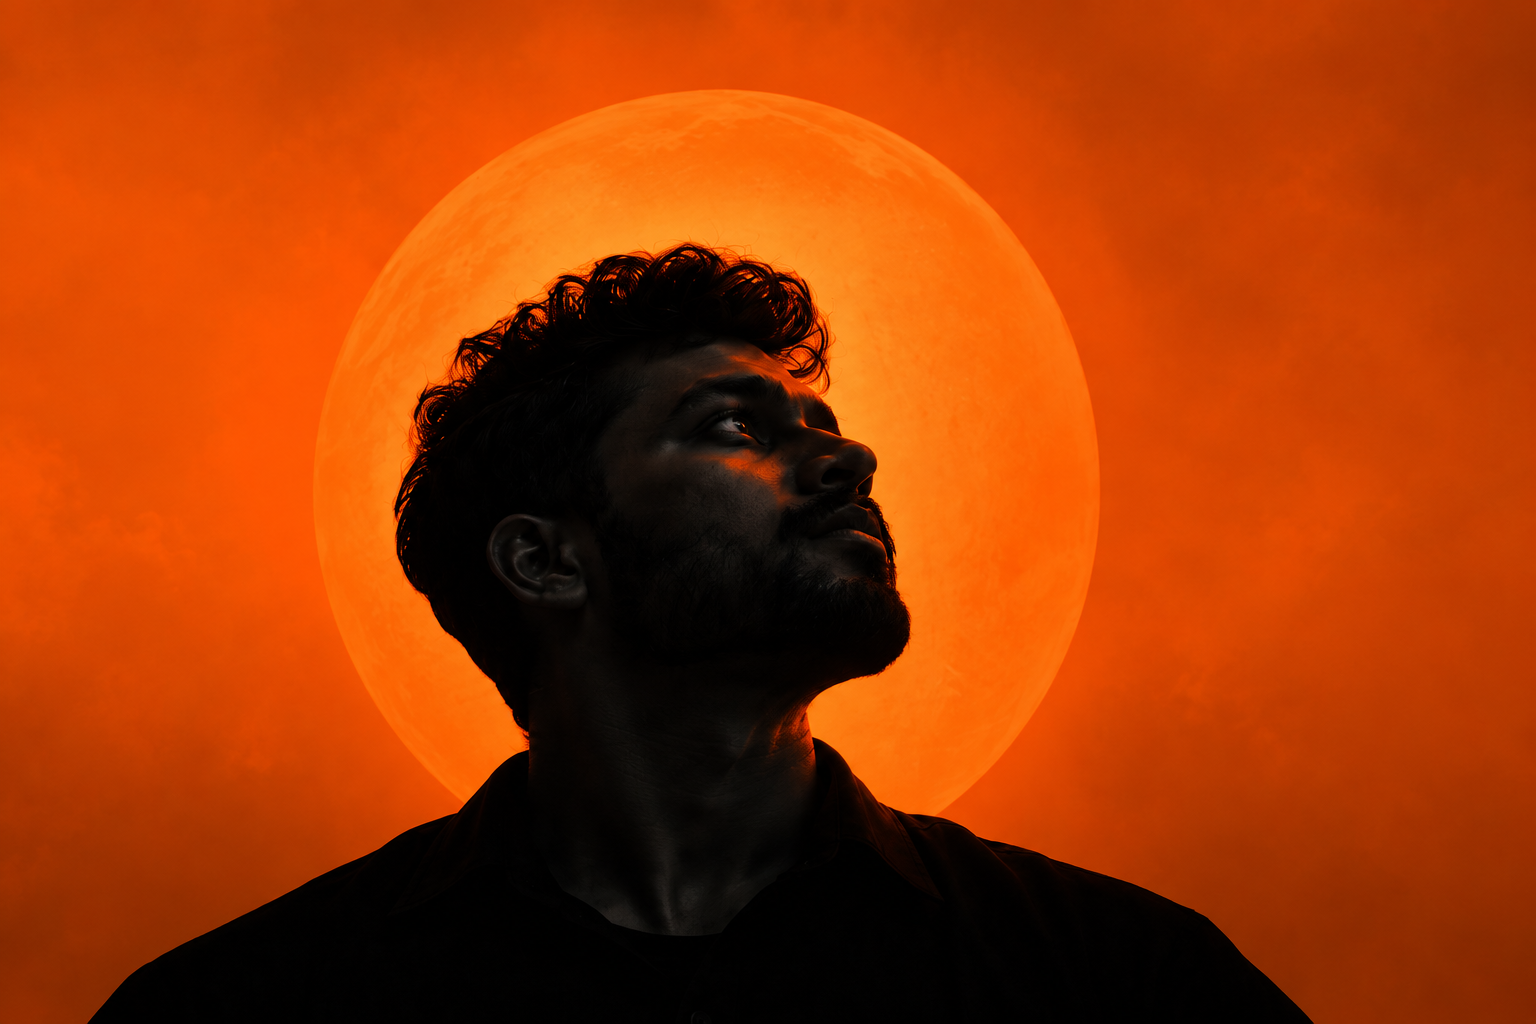
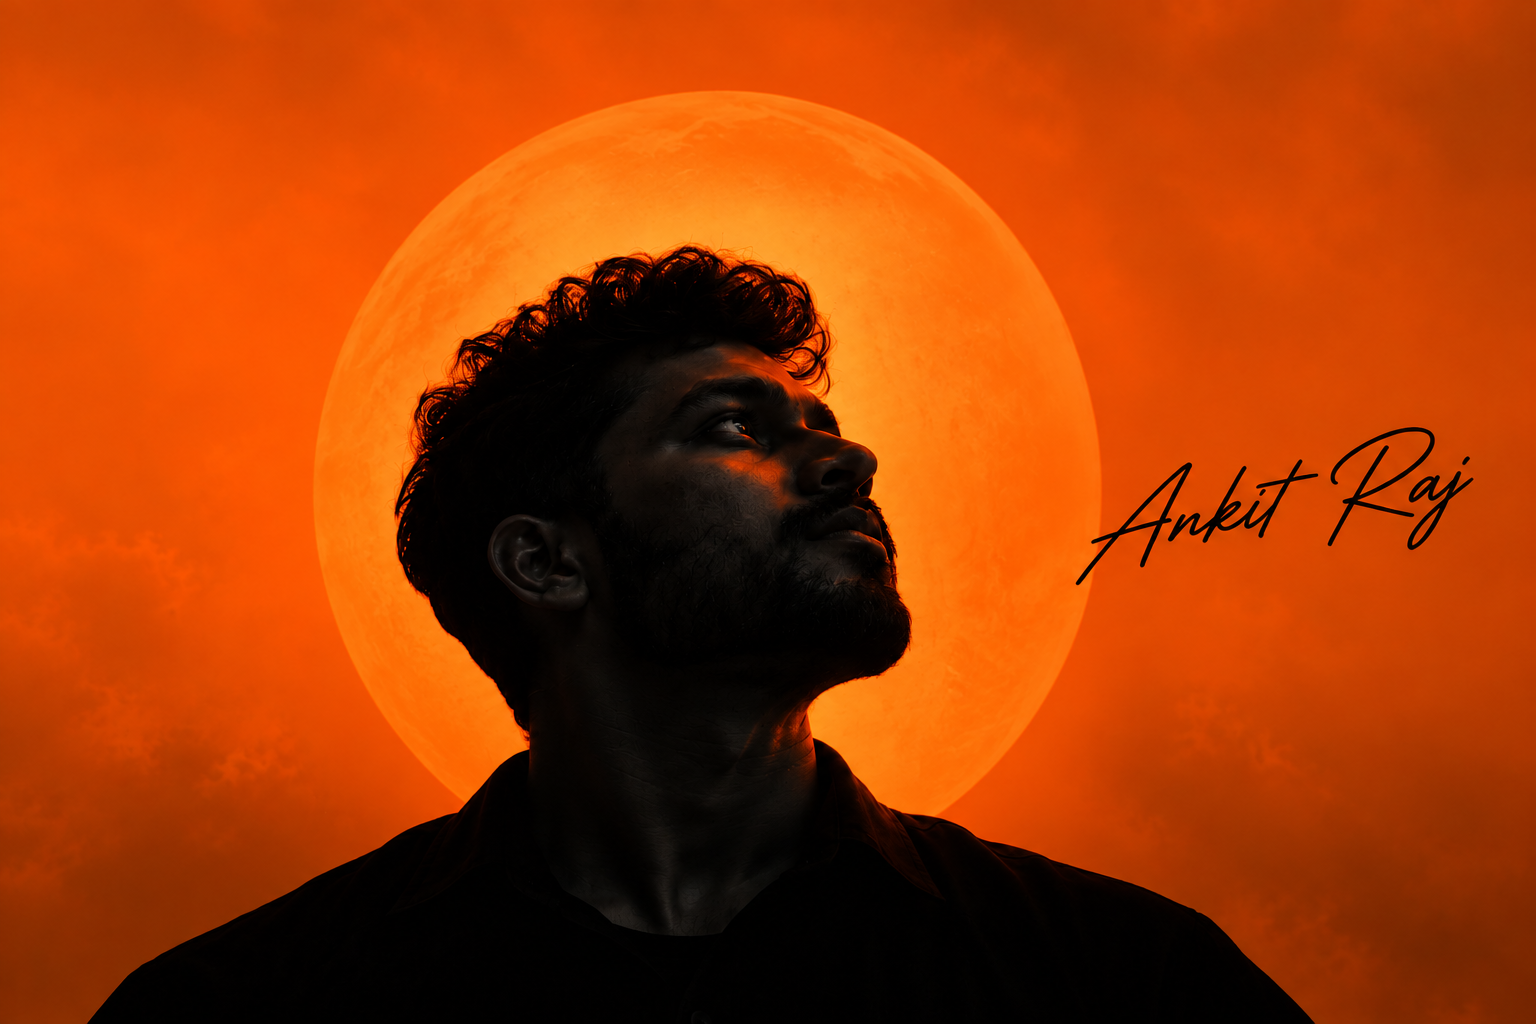
checkpoint: home hero and navbar

diff --git a/src/app/page.tsx b/src/app/page.tsx
@@ -53,7 +53,7 @@ import MustBeThinkingTransition from "@/components/must-thinking-transition"
 import gsap from "gsap"
 import { ScrollTrigger } from "gsap/ScrollTrigger"
 import { cn } from "@/lib/utils"
-import { motion, AnimatePresence, useReducedMotion } from "framer-motion"
+import { motion, AnimatePresence } from "framer-motion"
 
 const SocialContainer = styled.div`
   display: flex;
@@ -914,39 +914,11 @@ const HERO_NAV_ITEMS = [
   { label: "CONTACT", href: "#contact" },
 ]
 
-// Handwritten signature entrance — reveals left-to-right once on page load,
-// like a pen signing the page. Runs a single time, then stays visible.
-function SignatureName({ reduceMotion }: { reduceMotion: boolean }) {
-  return (
-    <span className="relative inline-block">
-      <motion.span
-        aria-label="Ankit Raj"
-        className="block whitespace-nowrap"
-        style={{ fontFamily: "'Allura', 'Italianno', cursive", fontWeight: 400 }}
-        initial={reduceMotion ? false : { clipPath: "inset(-12% 100% -12% 0%)" }}
-        animate={{ clipPath: "inset(-12% 0% -12% 0%)" }}
-        transition={{ duration: 2.4, delay: 0.7, ease: [0.45, 0, 0.2, 1] }}
-      >
-        Ankit Raj
-      </motion.span>
-      {!reduceMotion && (
-        <motion.span
-          aria-hidden="true"
-          className="absolute top-[62%] size-[7px] rounded-full bg-black/85"
-          style={{ boxShadow: "0 0 8px rgba(0,0,0,0.45)" }}
-          initial={{ left: "0%", opacity: 0 }}
-          animate={{ left: "98%", opacity: [0, 1, 1, 0] }}
-          transition={{ duration: 2.4, delay: 0.7, ease: [0.45, 0, 0.2, 1] }}
-        />
-      )}
-    </span>
-  )
-}
-
 export default function HomePage() {
   const [isDark, setIsDark] = React.useState(true)
   const [navOpen, setNavOpen] = React.useState(false)
-  const reduceMotion = useReducedMotion() ?? false
+  const [homeVisible, setHomeVisible] = React.useState(true)
+  const heroRef = React.useRef<HTMLElement | null>(null)
 
   React.useEffect(() => {
     const root = document.documentElement
@@ -963,6 +935,22 @@ export default function HomePage() {
     window.addEventListener("keydown", onKey)
     return () => window.removeEventListener("keydown", onKey)
   }, [navOpen])
+
+  // Hamburger lives only on Home — hide it (and close the panel) once the
+  // hero scrolls out of view, show it again when returning to Home.
+  React.useEffect(() => {
+    const el = heroRef.current
+    if (!el || typeof IntersectionObserver === "undefined") return
+    const obs = new IntersectionObserver(
+      ([entry]) => {
+        setHomeVisible(entry.isIntersecting)
+        if (!entry.isIntersecting) setNavOpen(false)
+      },
+      { threshold: 0.15 }
+    )
+    obs.observe(el)
+    return () => obs.disconnect()
+  }, [])
 
   const goToSection = (href: string) => {
     setNavOpen(false)
@@ -1065,16 +1053,18 @@ export default function HomePage() {
 
   return (
     <main id="home" className="relative">
-      {/* Hamburger — the only visible chrome in the closed hero state */}
+      {/* Hamburger — visible only while the Home hero is in view */}
       <header className="pointer-events-none fixed left-0 top-0 z-[60] p-5 sm:p-8">
         <motion.button
           type="button"
           aria-label="Open navigation"
+          aria-hidden={!homeVisible || navOpen}
+          tabIndex={homeVisible && !navOpen ? 0 : -1}
           onClick={() => setNavOpen(true)}
           className="pointer-events-auto flex size-14 items-center justify-center rounded-full bg-black shadow-[0_10px_30px_rgba(0,0,0,0.45)]"
-          animate={{ opacity: navOpen ? 0 : 1, scale: navOpen ? 0.85 : 1 }}
+          animate={{ opacity: homeVisible && !navOpen ? 1 : 0, scale: navOpen ? 0.85 : 1 }}
           transition={{ duration: 0.35, ease: [0.22, 1, 0.36, 1] }}
-          style={{ pointerEvents: navOpen ? "none" : "auto" }}
+          style={{ pointerEvents: homeVisible && !navOpen ? "auto" : "none" }}
         >
           <span className="flex flex-col items-center gap-[5px]" aria-hidden="true">
             <span className="block h-[3px] w-6 rounded-full bg-[#E8621A]" />
@@ -1154,7 +1144,7 @@ export default function HomePage() {
       </AnimatePresence>
 
       {/* Home hero — exact uploaded cinematic portrait as a static full-screen background */}
-      <section aria-label="Intro" className="relative min-h-[100dvh] overflow-hidden bg-[#C8500F]">
+      <section ref={heroRef} aria-label="Intro" className="relative min-h-[100dvh] overflow-hidden bg-[#C8500F]">
         {/* static background photograph — never animated, moved, or filtered */}
         <img
           src="/images/hero-bg.png"
@@ -1187,11 +1177,8 @@ export default function HomePage() {
             </p>
           </div>
 
-          {/* signature + tagline */}
-          <div className="absolute right-5 top-[44%] z-10 text-right sm:right-12 sm:top-[45%] lg:right-24">
-            <p className="text-[56px] leading-[0.95] text-black sm:text-[84px] lg:text-[96px]">
-              <SignatureName reduceMotion={reduceMotion} />
-            </p>
+          {/* tagline (the "Ankit Raj" signature is baked into the background image) */}
+          <div className="absolute right-5 top-[58%] z-10 text-right sm:right-12 lg:right-24">
             <p className="mt-4 font-mono text-[10px] leading-[1.9] tracking-[0.3em] text-black/80 sm:text-[12px]">
               FULL-STACK DEVELOPER
               <br />

diff --git a/src/app/globals.css b/src/app/globals.css
@@ -1,4 +1,4 @@
-@import url('https://fonts.googleapis.com/css2?family=Amarante&family=Italianno&family=Anton&family=Allura&display=swap');
+@import url('https://fonts.googleapis.com/css2?family=Amarante&family=Italianno&family=Anton&display=swap');
 @import "tailwindcss";
 @import "tw-animate-css";
 @import "shadcn/tailwind.css";
